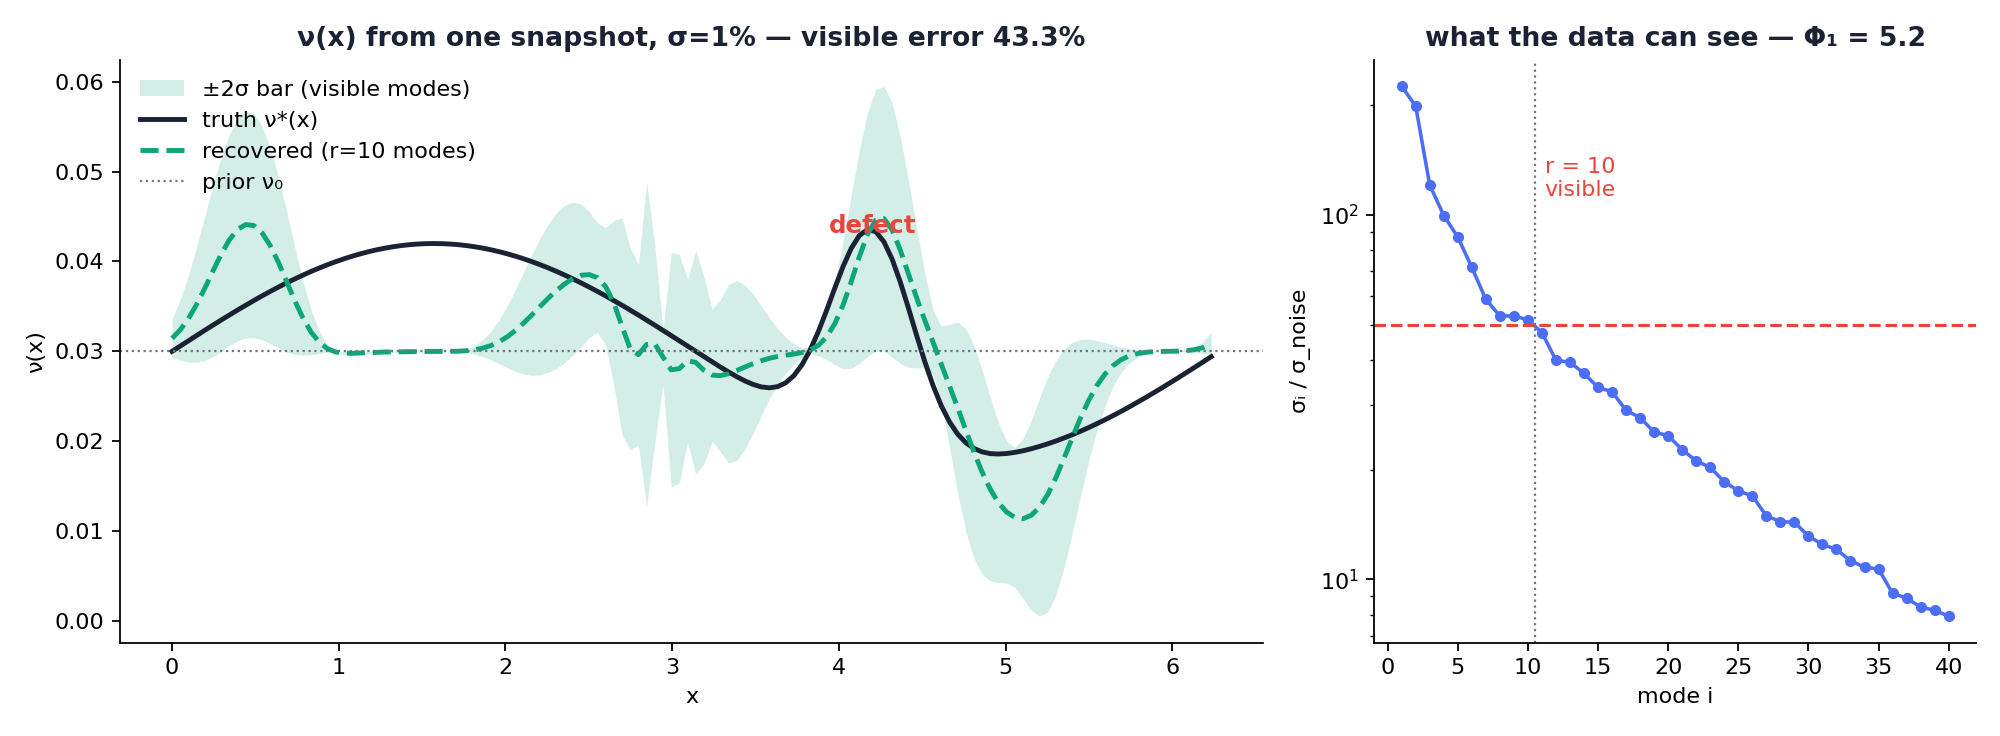
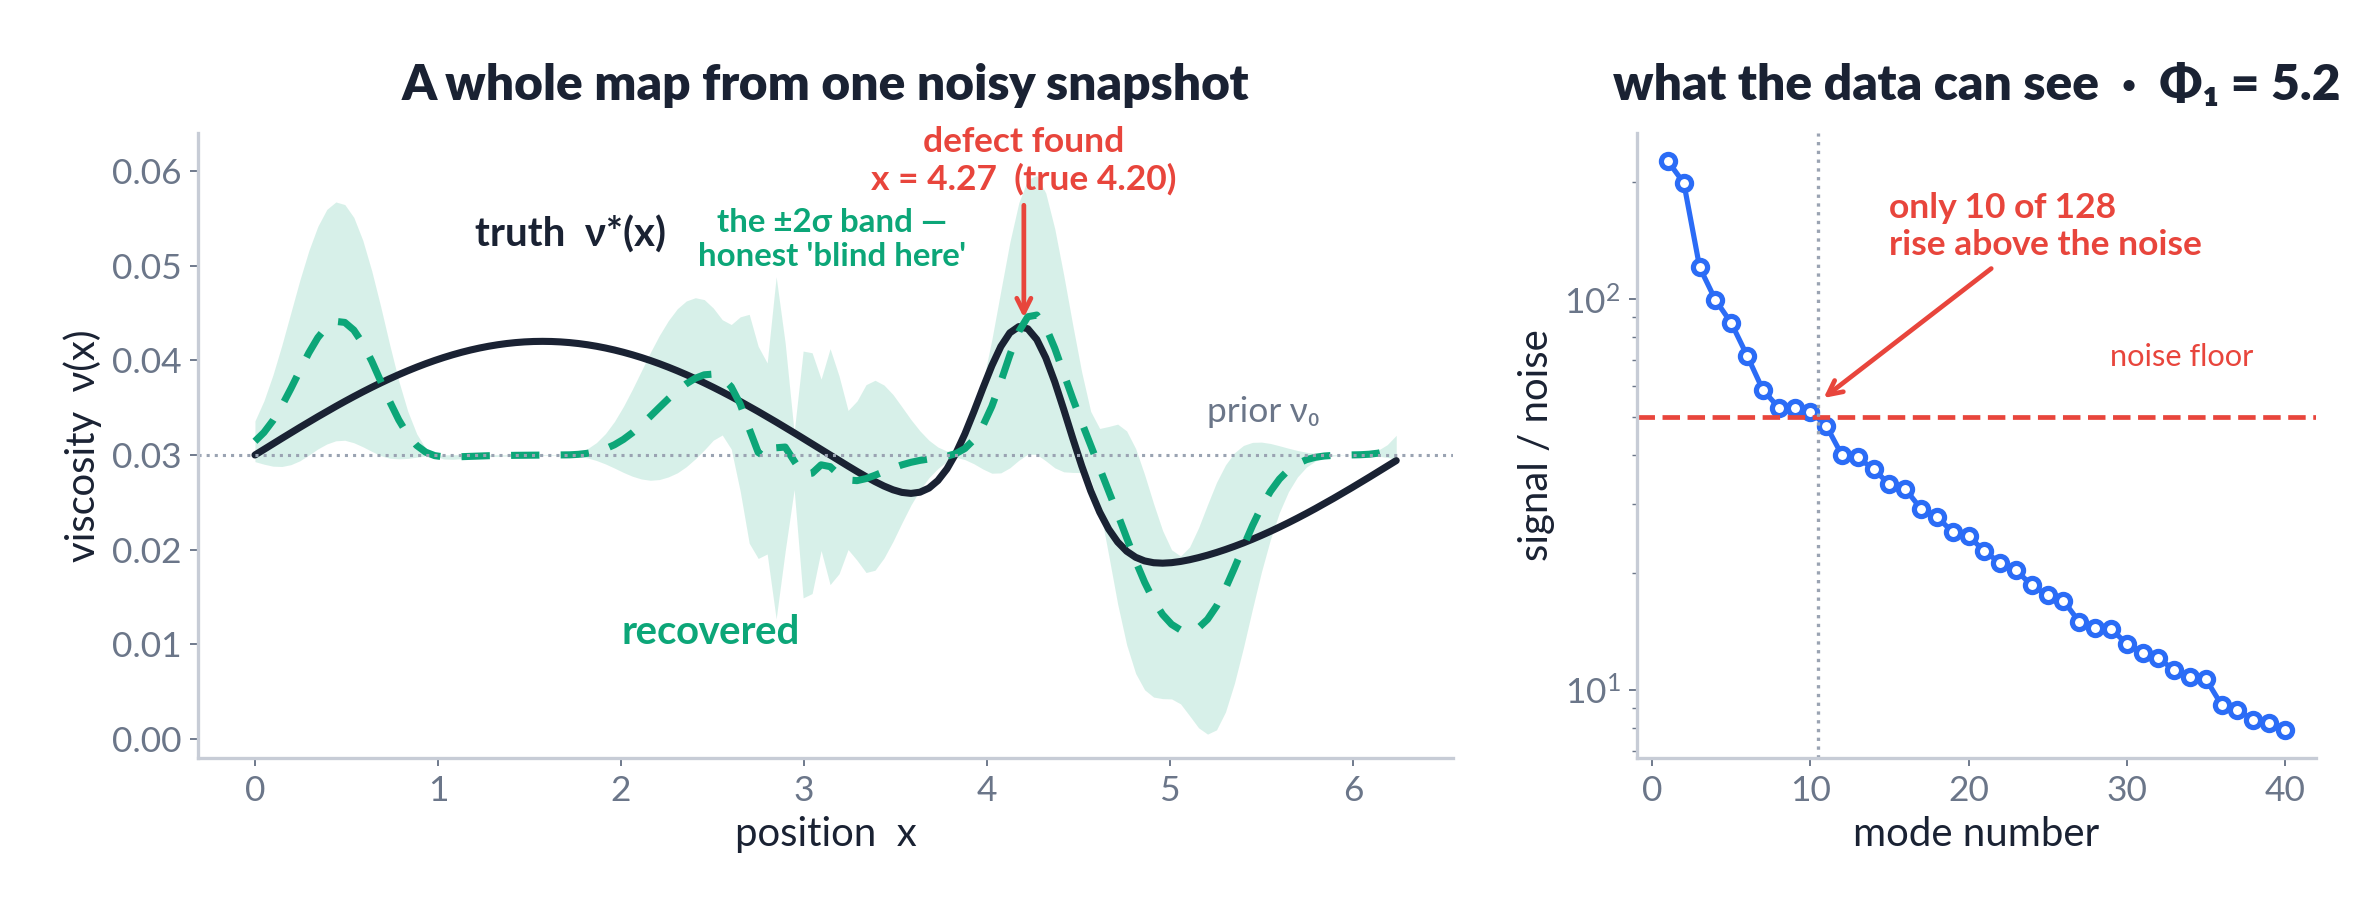
field-inversion figure: restyle to match the concept cards
Lato font, series palette, large labels, direct on-curve labels instead of a
tiny legend; plain-language annotations (defect found x=4.27, only 10 of 128
rise above the noise, the honest ±2σ 'blind here' band). Still generated from
the real stand run — the numbers are measured, only the styling changed.

diff --git a/stands/one_snapshot_map.py b/stands/one_snapshot_map.py
@@ -246,37 +246,74 @@ try:
     import matplotlib
     matplotlib.use("Agg")
     import matplotlib.pyplot as plt
-    INK, MUT, GREEN, RED, BLUE = "#1A2233", "#6B7689", "#0CA678", "#E8453C", "#4C6EF5"
-    fig, (ax1, ax2) = plt.subplots(1, 2, figsize=(12.5, 4.6),
-                                   gridspec_kw={'width_ratios': [1.9, 1]})
-    ax1.fill_between(X, nu_hat-2*bar, nu_hat+2*bar, color=GREEN, alpha=.18, lw=0,
-                     label="±2σ bar (visible modes)")
-    ax1.plot(X, nu_true, color=INK, lw=2.2, label="truth ν*(x)")
-    ax1.plot(X, nu_hat, color=GREEN, lw=2.2, ls="--", label=f"recovered (r={r_vis} modes)")
-    ax1.axhline(NU0, color=MUT, lw=1, ls=":", label="prior ν₀")
-    ax1.annotate("defect", xy=(4.2, nu_true.max()*0.99), color=RED,
-                 ha="center", fontsize=11, fontweight="bold")
-    ax1.set_xlabel("x"); ax1.set_ylabel("ν(x)")
-    ax1.set_title(f"ν(x) from one snapshot, σ=1% — visible error {rec_err_vis:.1%}",
-                  fontsize=12, fontweight="bold", color=INK)
-    ax1.legend(frameon=False, fontsize=10, loc="upper left")
+    from matplotlib import font_manager
+    # match the concept cards: Lato, big labels, the series palette
+    for f in ("/usr/share/fonts/truetype/lato/Lato-Regular.ttf",
+              "/usr/share/fonts/truetype/lato/Lato-Bold.ttf",
+              "/usr/share/fonts/truetype/lato/Lato-Black.ttf"):
+        if Path(f).exists():
+            font_manager.fontManager.addfont(f)
+    plt.rcParams.update({"font.family": "Lato", "font.size": 17,
+                         "axes.edgecolor": "#C7CCD6", "axes.linewidth": 1.4,
+                         "xtick.color": "#6B7689", "ytick.color": "#6B7689",
+                         "text.color": "#1A2233", "axes.labelcolor": "#1A2233"})
+    INK, MUT, FAINT = "#1A2233", "#6B7689", "#9AA3B2"
+    GREEN, RED, BLUE, HAIR = "#0CA678", "#E8453C", "#2B6CF6", "#EAECEF"
+
+    fig, (ax1, ax2) = plt.subplots(1, 2, figsize=(14.0, 5.4),
+                                   gridspec_kw={'width_ratios': [1.85, 1]})
+    fig.patch.set_facecolor("white")
+
+    # ── left: the map — truth, recovery, and the honest ±2σ band ──
+    ax1.fill_between(X, nu_hat-2*bar, nu_hat+2*bar, color=GREEN, alpha=.16, lw=0)
+    ax1.plot(X, nu_true, color=INK, lw=3.0, solid_capstyle="round")
+    ax1.plot(X, nu_hat, color=GREEN, lw=3.0, ls=(0, (4, 3)), solid_capstyle="round")
+    ax1.axhline(NU0, color=FAINT, lw=1.3, ls=":")
+    # direct labels on the curves — no tiny legend to squint at
+    ax1.annotate("truth  ν*(x)", xy=(1.55, nu_true[int(1.55/(2*np.pi)*N)]),
+                 xytext=(1.2, 0.052), color=INK, fontsize=17, fontweight="bold")
+    ax1.annotate("recovered", xy=(2.45, nu_hat[int(2.45/(2*np.pi)*N)]),
+                 xytext=(2.0, 0.010), color=GREEN, fontsize=17, fontweight="bold")
+    ax1.annotate("prior ν₀", xy=(6.0, NU0), xytext=(5.2, 0.0335),
+                 color=MUT, fontsize=15)
+    ax1.annotate("the ±2σ band —\nhonest 'blind here'", xy=(3.15, 0.050),
+                 color=GREEN, fontsize=14, ha="center", fontweight="bold")
+    ax1.annotate("defect found\nx = 4.27  (true 4.20)", xy=(4.2, 0.044),
+                 xytext=(4.2, 0.058), color=RED, fontsize=15, ha="center",
+                 fontweight="bold",
+                 arrowprops=dict(arrowstyle="->", color=RED, lw=2))
+    ax1.set_xlabel("position  x", fontsize=17)
+    ax1.set_ylabel("viscosity  ν(x)", fontsize=17)
+    ax1.set_title("A whole map from one noisy snapshot",
+                  fontsize=21, fontweight="black", color=INK, pad=14)
+    ax1.tick_params(labelsize=15)
+    ax1.set_ylim(-0.002, 0.064)
     for s in ("top", "right"):
         ax1.spines[s].set_visible(False)
 
+    # ── right: what the data can actually see ──
     idx = np.arange(1, 41)
-    ax2.semilogy(idx, S[:40]/sigma, "o-", color=BLUE, ms=4, lw=1.6)
-    ax2.axhline(1/PRIOR_AMP, color=RED, lw=1.4, ls="--")
-    ax2.axvline(r_vis+0.5, color=MUT, lw=1, ls=":")
-    ax2.text(r_vis+1.2, S[0]/sigma*0.5, f"r = {r_vis}\nvisible", color=RED, fontsize=10)
-    ax2.set_xlabel("mode i"); ax2.set_ylabel("σᵢ / σ_noise")
-    ax2.set_title(f"what the data can see — Φ₁ = {phi1:.1f}",
-                  fontsize=12, fontweight="bold", color=INK)
+    ax2.semilogy(idx, S[:40]/sigma, "o-", color=BLUE, ms=6, lw=2.2,
+                 markerfacecolor="white", markeredgewidth=2.2)
+    ax2.axhline(1/PRIOR_AMP, color=RED, lw=2.0, ls="--")
+    ax2.axvline(r_vis+0.5, color=FAINT, lw=1.4, ls=":")
+    ax2.annotate(f"only {r_vis} of 128\nrise above the noise", xy=(r_vis+0.6, 55),
+                 xytext=(15, 130), color=RED, fontsize=15, fontweight="bold",
+                 ha="left", arrowprops=dict(arrowstyle="->", color=RED, lw=2))
+    ax2.text(38, 1/PRIOR_AMP*1.35, "noise floor", color=RED, fontsize=13,
+             ha="right")
+    ax2.set_xlabel("mode number", fontsize=17)
+    ax2.set_ylabel("signal / noise", fontsize=17)
+    ax2.set_title(f"what the data can see  ·  Φ₁ = {phi1:.1f}",
+                  fontsize=21, fontweight="black", color=INK, pad=14)
+    ax2.tick_params(labelsize=15)
     for s in ("top", "right"):
         ax2.spines[s].set_visible(False)
-    fig.tight_layout()
+
+    fig.tight_layout(pad=1.6)
     out = Path(__file__).resolve().parents[1]/"assets"/"field-inversion.png"
     out.parent.mkdir(exist_ok=True)
-    fig.savefig(out, dpi=160)
+    fig.savefig(out, dpi=170, facecolor="white")
     print(f"\n  figure → {out.relative_to(Path(__file__).resolve().parents[1])}")
 except Exception as e:
     print(f"  (figure skipped: {e})")